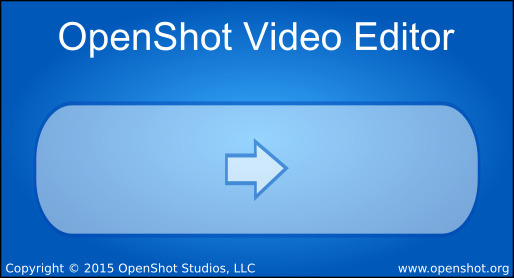
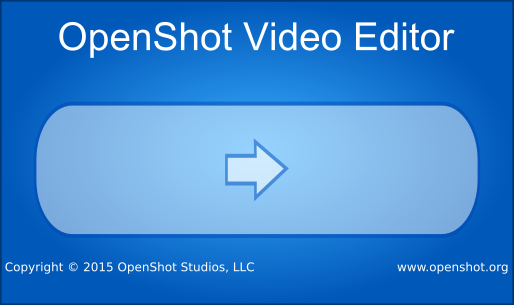
Fix missing libjpeg.dylib dependency for Mac, and updated automation scripts for producing DMG. Also updated art assets again to add copyright and website. As far as I can tell, the Mac DMG is now completely functional, just needs to be code signed (which is pending at the moment with Apple)

diff --git a/freeze.py b/freeze.py
@@ -167,14 +167,20 @@ elif sys.platform == "linux":
     src_files.append((os.path.join(PATH, "xdg", iconFile), iconFile))
 
 elif sys.platform == "darwin":
-    # Copy required ImageMagick files
+    # Copy Mac specific files that cx_Freeze misses
+    # ImageMagick files
     for filename in find_files("/usr/local/Cellar/imagemagick/6.8.9-5/lib/ImageMagick/", ["*"]):
         external_so_files.append((filename, filename.replace("/usr/local/Cellar/imagemagick/6.8.9-5/lib/", "")))
     for filename in find_files("/usr/local/Cellar/imagemagick/6.8.9-5/etc/ImageMagick-6/", ["*"]):
         external_so_files.append((filename, filename.replace("/usr/local/Cellar/imagemagick/6.8.9-5/etc/ImageMagick-6/",
                                                              "ImageMagick/etc/configuration/")))
+    # SVG executables
     for filename in find_files("/Users/jonathan/apps/rsvg/", ["*"]):
         external_so_files.append((filename, filename.replace("/Users/jonathan/apps/rsvg/", "")))
+
+    # JPEG library
+    for filename in find_files("/usr/local/Cellar/jpeg/8d/lib", ["libjpeg.8.dylib"]):
+        external_so_files.append((filename, filename.replace("/usr/local/Cellar/jpeg/8d/lib/", "")))
 
     # Copy openshot.py Python bindings
     src_files.append(("/usr/local/lib/python3.3/site-packages/openshot.py", "openshot.py"))
